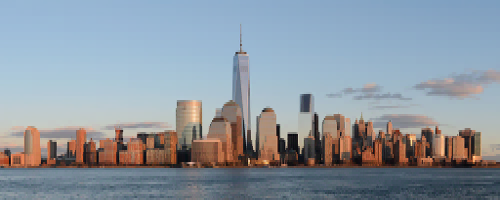
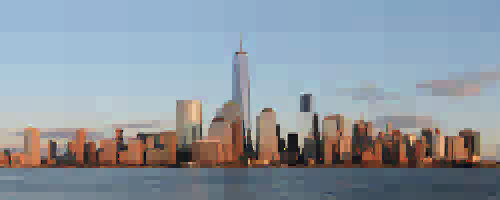
corrected thresholding logic

diff --git a/src/model/ImageModelImpl.java b/src/model/ImageModelImpl.java
@@ -3,13 +3,12 @@ package model;
 import java.io.File;
 import java.io.IOException;
 import java.util.ArrayList;
+import java.util.Arrays;
 import java.util.HashMap;
 import java.util.HashSet;
 import java.util.List;
 import java.util.Map;
 import java.util.Set;
-
-import jdk.jshell.execution.JdiExecutionControl;
 
 import static model.ImageOperations.blur;
 import static model.ImageOperations.brighten;
@@ -309,7 +308,7 @@ public class ImageModelImpl implements ImageModel {
 //    return sequence;
 //  }
 
-  private static double[][] convertIntToDouble(int[][] intArray) {
+  public double[][] convertIntToDouble(int[][] intArray) {
     int rows = intArray.length;
     int cols = intArray[0].length;
     double[][] doubleArray = new double[rows][cols];
@@ -323,7 +322,7 @@ public class ImageModelImpl implements ImageModel {
     return doubleArray;
   }
 
-  private static int[][] convertDoubleToInt(double[][] doubleArray) {
+  public int[][] convertDoubleToInt(double[][] doubleArray) {
     int rows = doubleArray.length;
     int cols = doubleArray[0].length;
     int[][] intArray = new int[rows][cols];
@@ -353,39 +352,37 @@ public class ImageModelImpl implements ImageModel {
       System.arraycopy(doubleChannel[i], 0, squareArray[i], 0, cols);
     }
 
-    while (padSize > 1) {
-      for (int i = 0; i < padSize; i++) {
+    int currentPadSize = padSize;
+    while (currentPadSize > 1) {
+      for (int i = 0; i < currentPadSize; i++) {
         List<Double> eachRow = new ArrayList<>();
-        for (int j = 0; j < padSize; j++) {
+        for (int j = 0; j < currentPadSize; j++) {
           eachRow.add(squareArray[i][j]);
         }
-
         List<Double> transformedRow = transform(eachRow);
-        for (int j = 0; j < padSize; j++) {
+        for (int j = 0; j < currentPadSize; j++) {
           squareArray[i][j] = transformedRow.get(j);
         }
       }
 
-      for (int j = 0; j < padSize; j++) {
+      for (int j = 0; j < currentPadSize; j++) {
         List<Double> eachCol = new ArrayList<>();
-        for (int i = 0; i < padSize; i++) {
+        for (int i = 0; i < currentPadSize; i++) {
           eachCol.add(squareArray[i][j]);
         }
-
         List<Double> transformedCol = transform(eachCol);
-        for (int i = 0; i < padSize; i++) {
+        for (int i = 0; i < currentPadSize; i++) {
           squareArray[i][j] = transformedCol.get(i);
         }
       }
 
-      padSize = padSize / 2;
+      currentPadSize /= 2;
     }
 
     double[][] originalChannel = new double[rows][cols];
     for (int i = 0; i < rows; i++) {
       System.arraycopy(squareArray[i], 0, originalChannel[i], 0, cols);
     }
-
     return originalChannel;
   }
 
@@ -399,14 +396,14 @@ public class ImageModelImpl implements ImageModel {
       }
     }
     double[] sortedIntensities = uniqueIntensities.stream().mapToDouble(Double::doubleValue).toArray();
+    Arrays.sort(sortedIntensities);
 
     double thresholdIntensity;
-    int resetCount = (int) (uniqueIntensities.size() * (percent/100));
-    if (resetCount < 0) {
+    int resetCount = (int) (sortedIntensities.length * (percent / 100));
+    if (resetCount < 1) {
       thresholdIntensity = 0;
-    }
-    else {
-      thresholdIntensity = sortedIntensities[resetCount-1];
+    } else {
+      thresholdIntensity = sortedIntensities[resetCount - 1];
     }
 
     for (int i = 0; i < channel.length; i++) {
@@ -452,39 +449,37 @@ public class ImageModelImpl implements ImageModel {
       System.arraycopy(doubleChannel[i], 0, squareArray[i], 0, cols);
     }
 
-    int counter = 2;
-    while (counter <= padSize) {
-      for (int j = 0; j < padSize; j++) {
+    int currentPadSize = 2;
+    while (currentPadSize <= padSize) {
+      for (int j = 0; j < currentPadSize; j++) {
         List<Double> eachCol = new ArrayList<>();
-        for (int i = 0; i < counter; i++) {
+        for (int i = 0; i < currentPadSize; i++) {
           eachCol.add(squareArray[i][j]);
         }
         List<Double> invertedCol = invert(eachCol);
-        for (int i = 0; i < counter; i++) {
+        for (int i = 0; i < currentPadSize; i++) {
           squareArray[i][j] = invertedCol.get(i);
         }
       }
 
-      for (int i = 0; i < padSize; i++) {
+      for (int i = 0; i < currentPadSize; i++) {
         List<Double> eachRow = new ArrayList<>();
-        for (int j = 0; j < counter; j++) {
+        for (int j = 0; j < currentPadSize; j++) {
           eachRow.add(squareArray[i][j]);
         }
-
         List<Double> invertedRow = invert(eachRow);
-        for (int j = 0; j < counter; j++) {
+        for (int j = 0; j < currentPadSize; j++) {
           squareArray[i][j] = invertedRow.get(j);
         }
       }
 
-      counter = counter * 2;
+      currentPadSize *= 2;
     }
 
     double[][] originalChannel = new double[rows][cols];
     for (int i = 0; i < rows; i++) {
       System.arraycopy(squareArray[i], 0, originalChannel[i], 0, cols);
     }
-
     return convertDoubleToInt(originalChannel);
   }
 
@@ -497,17 +492,5 @@ public class ImageModelImpl implements ImageModel {
 
     Image inverted = new Image(invertRed, invertGreen, invertBlue);
     images.put(newImageName, inverted);
-  }
-
-  public static void main(String[] args) throws IOException {
-    ImageModelImpl imageModel = new ImageModelImpl();
-
-    imageModel.loadImage("output\\samp.jpg", "original");
-
-    imageModel.compressImage("original", "Haar",10);
-    imageModel.saveImage("output\\sampleHaar.ppm", "Haar");
-
-    imageModel.decompressImage("Haar", "Invert");
-    imageModel.saveImage("output\\sampleHaarInvert.ppm", "Invert");
   }
 }
